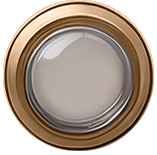
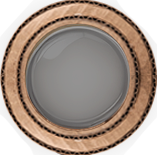
Scale update

diff --git a/js/config.js b/js/config.js
@@ -78,7 +78,7 @@ export const CONFIG = {
   layout: {
     // Text column width along the drum, reduced to 2/3 of the original 1700.
     // startX is kept at -maxWidth/2 so the column stays centered.
-    maxWidth: 1133,
+    maxWidth: 1080,
     startX: -567,
     initialY: -650,
     padding: 100,
@@ -94,11 +94,11 @@ export const CONFIG = {
     fonts: {
       family: '"Charter", Georgia, "Times New Roman", serif',
       size: {
-        h1: 46,
-        h2: 40,
-        h3: 36,
-        bullet: 38,
-        body: 28,
+        h1: 58,
+        h2: 46,
+        h3: 42,
+        bullet: 36,
+        body: 36,
       },
     },
     // Vertical advances (px): per-line height and gap after each block kind.
@@ -108,8 +108,8 @@ export const CONFIG = {
       h2Line: 50, h2Gap: 16,
       h3Line: 46, h3Gap: 16,
       bulletLine: 44, bulletGap: 12,
-      bodyLine: 37,   // per wrapped body line (leading reduced by 1 from 38)
-      bodyPara: 28,   // extra spacing after a body paragraph
+      bodyLine: 36,   // per wrapped body line (leading reduced by 1 from 38)
+      bodyPara: 20,   // extra spacing after a body paragraph
     },
   },
 

diff --git a/js/main.js b/js/main.js
@@ -41,7 +41,15 @@ async function loadManifest() {
 function fileForBits(bits) {
   if (manifest) {
     const entry = manifest.stories.find((s) => s.switches === bits);
-    if (entry) return CONFIG.paths.textsBase + entry.file;
+    if (entry) {
+      // A combination may have alternate stories (named <bits>A.md, etc.).
+      // Build the pool of all versions and pick one at random each load, so
+      // the same switch pattern can surface a different story. The 00000
+      // starting page has no alternates and is always shown as-is.
+      const files = [entry.file, ...(entry.alternates || []).map((a) => a.file)];
+      const pick = files[Math.floor(Math.random() * files.length)];
+      return CONFIG.paths.textsBase + pick;
+    }
   }
   return CONFIG.paths.textsBase + bits + '.md';
 }

diff --git a/css/style.css b/css/style.css
@@ -1,9 +1,9 @@
 /* Switch + light bank metrics (positions in viewport units so they track the
    BASE01.png console). Tune here — estimated from the reference image. */
 :root {
-    --toggle-center-y: 85.7cqh;  /* vertical center of the row (% of stage) */
+    --toggle-center-y: 88.2cqh;  /* vertical center of the row (% of stage) */
     --toggle-left: 5.3cqw;       /* left edge of the first switch */
-    --toggle-gap: 0.29cqw;       /* gap between every switch/light */
+    --toggle-gap: 0.5cqw;       /* gap between every switch/light */
     --switch-size: 5.85cqw;      /* switch (larger) diameter */
     --light-size: 3.6cqw;        /* light (smaller) diameter */
 }

diff --git a/texts/00000.md b/texts/00000.md
@@ -7,16 +7,14 @@
 
 
 
-# **Speculation for an Unsettled Planet.**
+# **Speculations for an Unsettled Planet.**
 
-A collection of provocations by the students of Interaction Design at Anant National University, created as part of their Speculative Design course, Semester 06, 2026. 
+*A collection of provocations by the students of Interaction Design at Anant National University, created as part of their Speculative Design course, Semester 06, 2026.*
 
-The course introduced speculative design methods to challenge normative design and explore the systemic inequities that are often undergirded by an unquestioning adherence to conventional practice.
+The course introduced speculative design methods as a way to challenge normative practice and to examine the systemic inequities that are deepened by an unquestioning adherence to conventional practice.  
+The works gathered here deliberately turn away from speculation as escapist futurism. Instead, the students have used their texts to interrogate power structures, surface hidden assumptions, and imagine alternative possibilities grounded in sustained critique. Throughout, the course placed particular emphasis on ethical practice within speculative design itself, attending to the risks of colonial speculation, exotification, and tech-solutionism.
 
-The works collected here are specifically oriented away from using speculation to generate escapist futurism, and instead the students used their speculations to understand power structures, explore hidden assumptions, and imagine alternative possibilities grounded in sustained critique. 
+**Taken together, these works seek to demonstrate that design has always served ideology, and to ask: who benefits from the precarious status quo of a fundamentally unsettled planet?**
 
-The course emphasized ethical practice even within the realm of speculative design, particularly addressing the risks of colonial speculation, exotification, and tech-solutionism.
-
-**With the works compiled here students seek to demonstrate how design has always served ideology, and ask : who benefits from the precarious status quo of a fundamentally unsettled planet?**
 
 

diff --git a/texts/00001.md b/texts/00001.md
@@ -1,16 +1,18 @@
-# **0001**
 
-**Untitled.Manya**
 
-## **Nation of Memory**
 
-### ***Where Citizenship Exists Only If You Remember***
+
+
+
+
+
+#Untitled.0001
 
 In the Nation of Memory, citizenship is not guaranteed by birth, documents, or digital databases. Instead, it exists only through **memory**. Every citizen must constantly prove their belonging to the nation by remembering and reciting the knowledge that defines it.
 
 At the start of every year, the state distributes two artifacts to every citizen: **The National Memory Passport** and **The Annual Citizen’s Book of Memory**.
 
-### **The National Memory Passport**
+**The National Memory Passport**
 
 The Memory Passport replaces traditional identity documents. Instead of storing personal information, it records a citizen’s **memory verification history**. Throughout the year, officials conduct random memory checks in places like transport hubs, government offices, and borders. Citizens must answer questions from the **Annual Citizen’s Book of Memory**.
 
@@ -18,12 +20,14 @@ Each correct answer earns a stamp in the passport. If a citizen fails to recall 
 
 The passport therefore becomes a **record of how well a citizen remembers the nation**.
 
-### **The Annual Citizen’s Book of Memory**
+**The Annual Citizen’s Book of Memory**
 
 Every year the government distributes the **Citizen’s Book of Memory**, a guide that all citizens must study and memorize. The book contains the official knowledge required to maintain citizenship, including national history, political structures, cultural values, borders, and civic responsibilities.
 
 Because the content changes every year, citizens must constantly relearn and update what they remember to stay aligned with the nation.
 
-### **Citizenship Through Recall**
+**Citizenship Through Recall**
 
 In the Nation of Memory, citizenship is not permanent but something that must be continuously performed through acts of remembering. The Memory Passport records these performances, while the Citizen’s Book defines what knowledge counts as belonging.
+
+*by Manya.*

diff --git a/texts/00001A.md b/texts/00001A.md
@@ -1,6 +1,12 @@
-# **Untitled\_Nikhil**
 
-**Untitled.Nikhil**
+
+
+
+
+
+
+
+# **Untitled.00001A**
 
 **Democracy is delicate:** you’re often pushed into a choice between getting properly informed, cutting through propaganda, understanding how institutions function, and learning what parties actually stand for or ignoring that complexity and voting mainly on faith in whoever seems trustworthy or powerful. 
 
@@ -16,6 +22,8 @@ The real dilemma becomes: will you take the pill or not?
 
 To vote for a party, you must throw its pill into a “pill-bank” *(rejecting full knowledge of the party you’re choosing)* and consume all the other pills instead, learning everything about everyone else.
 
-*If you try to consume every pill to understand every party, every policy trade-off, every hidden incentive, you may become mentally overloaded.* Instead of making you more rational, the flood of                     information can exhaust you, blur your  priorities, and leave you unable to decide at all. 
+*If you try to consume every pill to understand every party, every policy trade-off, every hidden incentive, you may become mentally overloaded.* Instead of making you more rational, the flood of information can exhaust you, blur your  priorities, and leave you unable to decide at all. 
 
 Voters are still trapped between two imperfect paths: the difficult work of becoming informed, or the easier comfort of faith-based voting, both shaped by a system that never fully lets choice be as free, clean, or equal as it claims. Here the pill simplifies our inevitably truncated political infrastructure and free franchise \- **consume a pill to know who you cannot vote for, or do not consume the pill for the party you inevitably believe in.**
+
+*by Nikhil*
